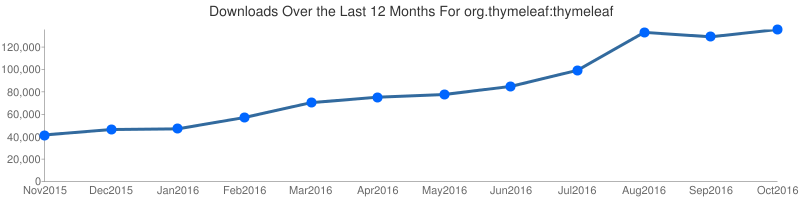
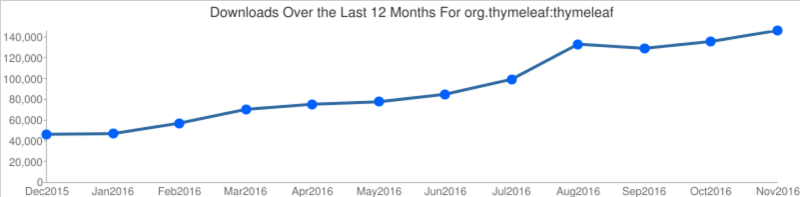
Updated Nov 2016 stats and improved chart explanation

Changed region(s): [[0.0, 0.1218, 0.9912, 0.8528], [0.03, 0.8832, 1.0, 1.0], [0.0, 0.0, 1.0, 0.0914]]

diff --git a/whoisusingthymeleaf.html b/whoisusingthymeleaf.html
@@ -78,7 +78,8 @@
 						Our figures
 					</h2>
 				</header>
-				<p>These are our download figures, measured by the <a href="http://search.maven.org/">Maven Central
+				<p>These are our figures for <strong>downloads per month</strong>,
+				measured by the <a href="http://search.maven.org/">Maven Central
 				repository</a>, and only referred to the thymeleaf <em>core</em> jar, this
 				is, not including Spring integration, extras, etc. Also, these figures
 				do not include distribution (<em>.zip</em> file) downloads from
